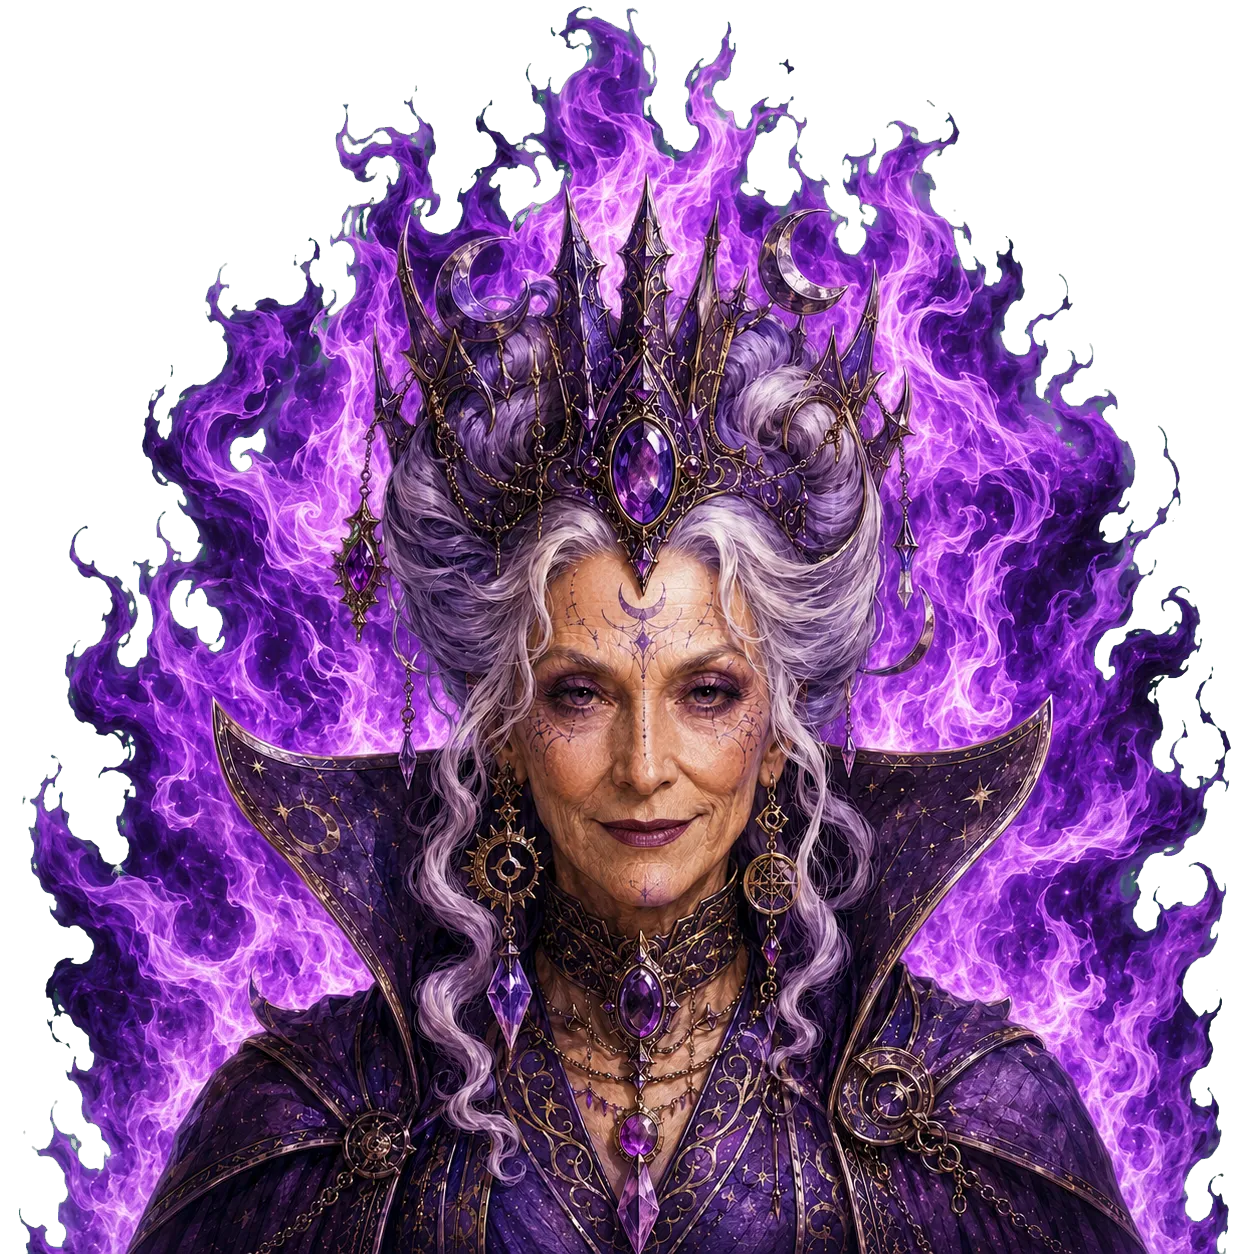
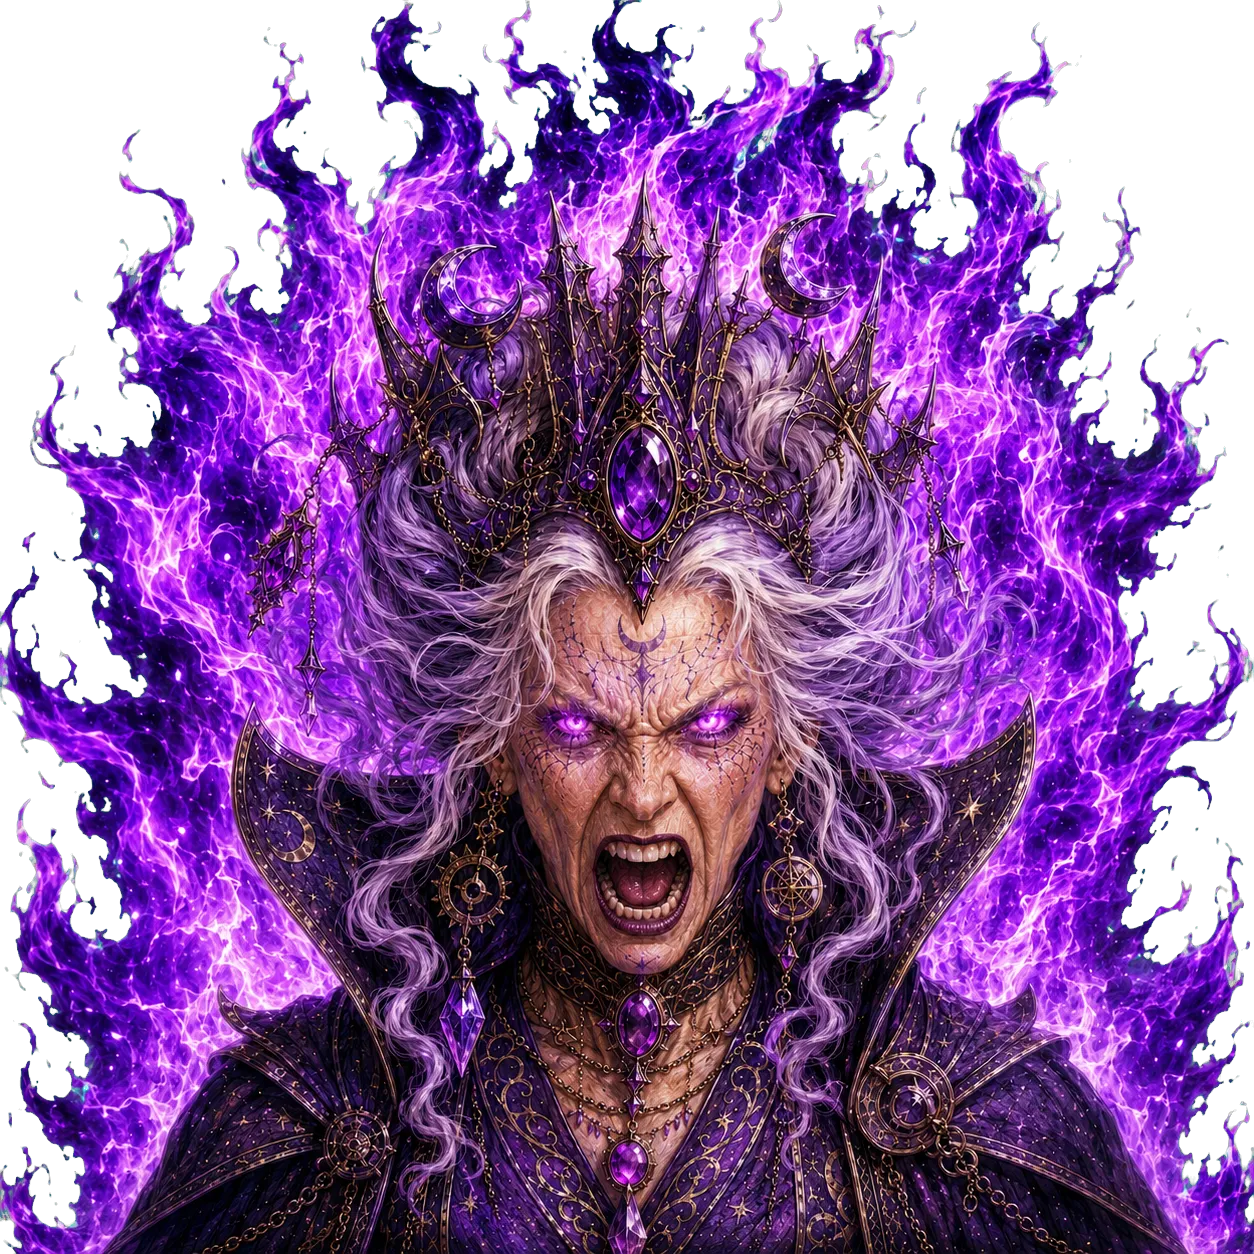
King enraged: real pink/purple front art (replaces awakened fallback)
User supplied the missing 激昂 front art. Identified by content (the new
source filenames are non-canonical): pink queen front came from
avatar-pink-ice-sea-king-rage-max-front, purple elder queen front from
avatar-purple-forest-king-rage-max-front. Both verified visually.

diff --git a/src/app-version.js b/src/app-version.js
@@ -1,3 +1,3 @@
 // 自動生成（.git/hooks/pre-commit）。デプロイのたびに更新される「今実行しているコード」の
 // バージョン。version.json と必ず同じ値になる。update-checker.js が使う基準値。
-export const APP_VERSION = "20260801-110425";
+export const APP_VERSION = "20260801-112239";
